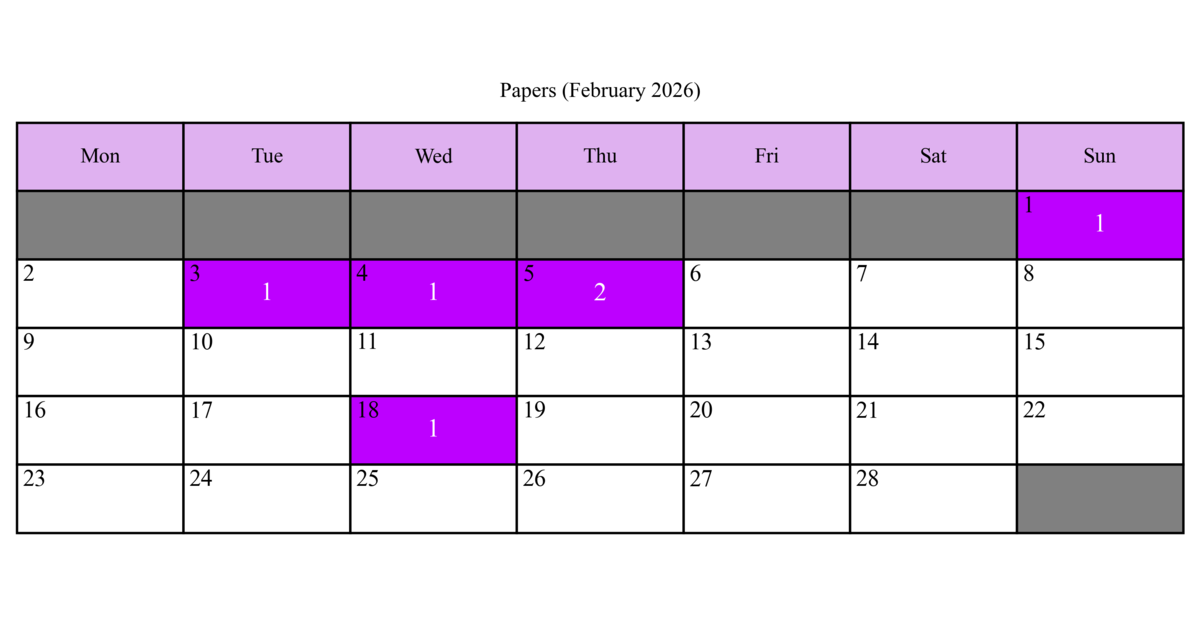
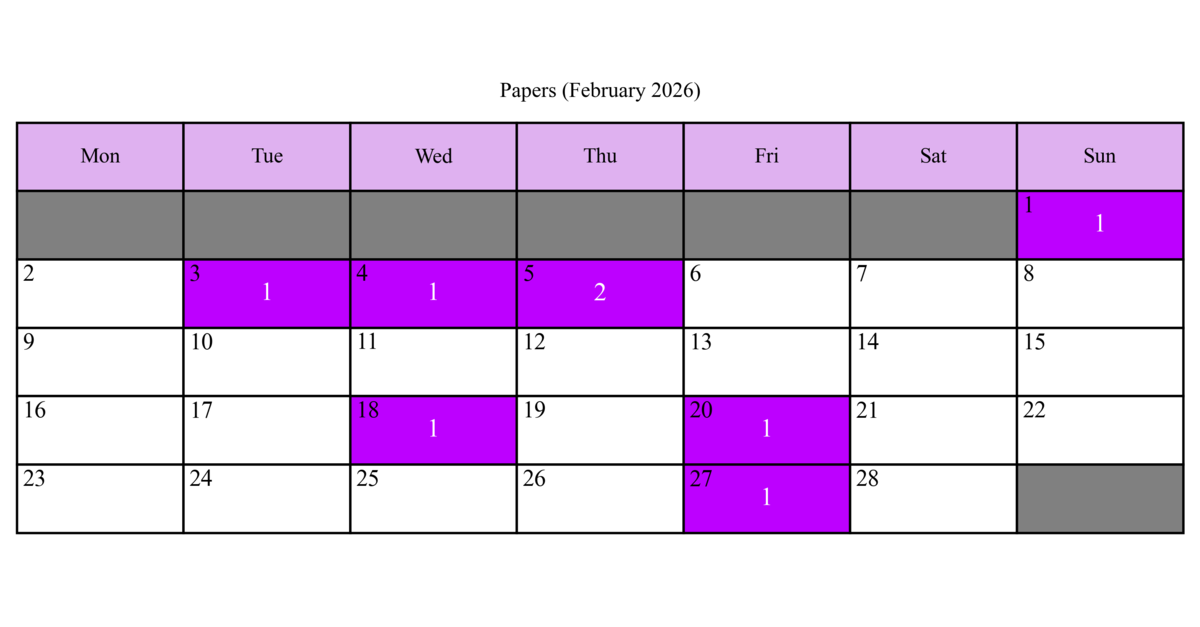
(Automated) updated paper log: February 27, 2026

Changed region(s): [[0.555, 0.6061, 0.7092, 0.8485]]

diff --git a/papers/index.html b/papers/index.html
@@ -29,11 +29,13 @@
       <div class="main-content">
         <div class="main-section">
           <!-- <summary_text> -->
-<p>This is where I log the papers I've read this year. My goal for 2026 is to read 300 papers. By the time this document was last updated (<b>February 19, 2026</b>), I have read <b>20 papers</b> this year. I should have read <b>39 papers</b> by this time, meaning I am <b>19 papers behind schedule</b>.</p>
+<p>This is where I log the papers I've read this year. My goal for 2026 is to read 300 papers. By the time this document was last updated (<b>February 27, 2026</b>), I have read <b>22 papers</b> this year. I should have read <b>47 papers</b> by this time, meaning I am <b>25 papers behind schedule</b>.</p>
           <!-- </summary_text> -->
           <p><img src="cal.png" style="width: 100%;" alt="A monthly calendar depicting the following tabular data graphically."></p>
           <!-- <paper_table> -->
 <table>
+  <tr><td>2/27/26</td><td>Synthesizing optimal collective algorithms</td><td><a href="https://dl.acm.org/doi/abs/10.1145/3437801.3441620" target="_parent">Link</a></td><td>Microsoft Research, PPoPP, 2021</td></tr>
+  <tr><td>2/20/26</td><td>Computing the Full Earth System at 1km Resolution</td><td><a href="https://dl.acm.org/doi/10.1145/3712285.3771789" target="_parent">Link</a></td><td>Max Planck Institute for Meteorology, SC, 2025</td></tr>
   <tr><td>2/18/26</td><td>The Memory Processing Unit: A Generalized Interface for End-to-End In-Memory Execution</td><td><a href="https://ghose.cs.illinois.edu/papers/26hpca_mpu.pdf" target="_parent">Link</a></td><td>University of Illinois, HPCA, 2026</td></tr>
   <tr><td>2/5/26</td><td>ATLAHS: An Application-centric Network Simulator Toolchain for AI, HPC, and Distributed Storage</td><td><a href="https://dl.acm.org/doi/10.1145/3712285.3759838" target="_parent">Link</a></td><td>ETH Zurich, SC, 2025</td></tr>
   <tr><td>2/5/26</td><td>Real-Time Object Detection and Recognition in FPGA-Based Autonomous Driving Systems</td><td><a href="https://www.ijcttjournal.org/archives/ijctt-v72i4p119" target="_parent">Link</a></td><td>Samsung, IJCTT, 2024</td></tr>
@@ -68,7 +70,7 @@
       <!-- <last_updated_text> --> 
 <div class="last-updated">
   <p class="last-updated-text">
-    Last updated: February 19, 2026 at 01:30 UTC.
+    Last updated: February 27, 2026 at 16:04 UTC.
   </p>
 </div>
 
